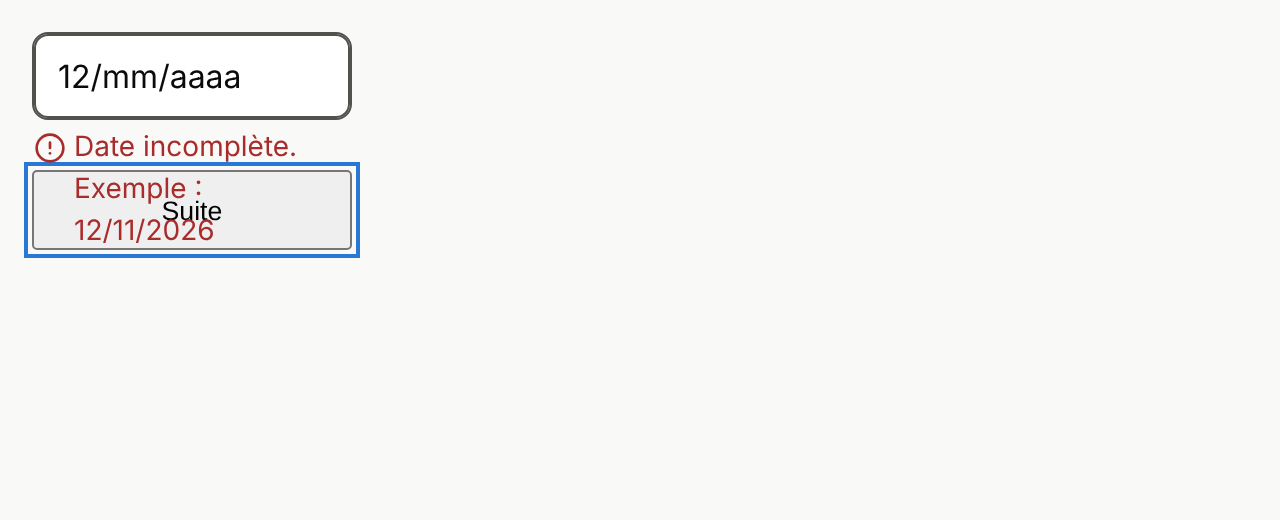
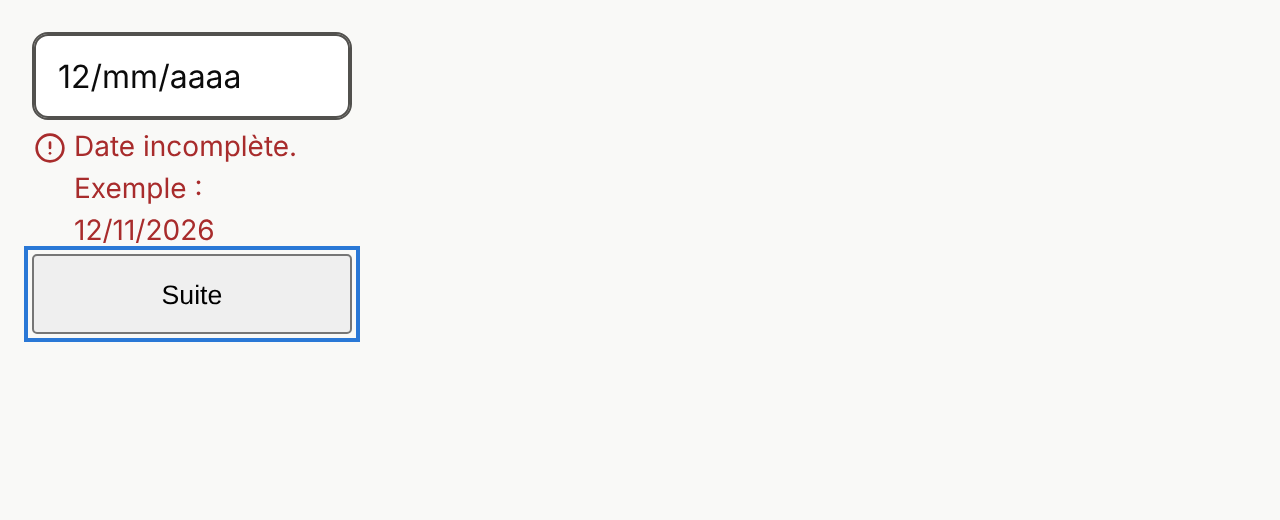
feat(date-input): champ de date à zones en mode calendrier (T1 et T2)
Socle sans interface (calculs de dates ISO, jeton LC_DATE_PICKER, ADR 0008) et
saisie par zones jour / mois / année dans lc-date-input quand le pointeur est
fin : frappe avec passage automatique, flèches, collage, jour impossible non
saisissable et sans message, date incomplète signalée à la sortie du champ.
Contrat public et mode natif inchangés. Le bouton et le calendrier arrivent
avec T5 : cette branche n'est pas fusionnée dans main avant.

Claude-Session: https://claude.ai/code/session_011nLZSEPJfzJTrYmUmaR8vs

Changed region(s): [[0.0, 0.3077, 0.2812, 0.6769], [0.125, 0.3692, 0.1875, 0.4308], [0.125, 0.5538, 0.1875, 0.5846]]

diff --git a/packages/angular/forms/src/date-input/date-input.acceptance.spec.ts b/packages/angular/forms/src/date-input/date-input.acceptance.spec.ts
@@ -218,8 +218,57 @@ describe('CA-6 un jour qui n’existe pas ne se saisit pas, sans message', () =>
     await type('29');
     expect(input.value).toBe('02/02/2026');
     expect(host.value()).toBe('2026-02-02');
-    await type('5');
+  });
+
+  it('CA-6 : 2 puis 5 dans le jour donne 25', async () => {
+    const { host, input, type, settle } = await mount(HostComponent);
+    host.value.set('2026-02-01');
+    await settle();
+    input.focus();
+    await type('25');
+    expect(input.value).toBe('25/02/2026');
     expect(host.value()).toBe('2026-02-25');
+  });
+
+  it('CA-6 : un 0 seul s’affiche 0j (valeur null), 5 donne 05, sortie de la zone la vide', async () => {
+    const { host, input, key, type, settle } = await mount(HostComponent);
+    host.value.set('2026-11-12');
+    await settle();
+    input.blur();
+    input.focus();
+    await key('Backspace');
+    await type('0');
+    expect(input.value).toBe('0j/11/2026');
+    expect(host.value()).toBeNull();
+    await type('5');
+    expect(input.value).toBe('05/11/2026');
+    expect(host.value()).toBe('2026-11-05');
+    await key('ArrowLeft');
+    await type('0');
+    await key('ArrowRight');
+    expect(input.value).toBe('jj/11/2026');
+    expect(host.value()).toBeNull();
+  });
+
+  it('CA-6 : un 0 seul dans le mois s’affiche 0m, sortie de la zone la vide', async () => {
+    const { host, input, key, type, settle } = await mount(HostComponent);
+    host.value.set('2026-11-12');
+    await settle();
+    input.blur();
+    input.focus();
+    await key('ArrowRight');
+    await key('Backspace');
+    await type('0');
+    expect(input.value).toBe('12/0m/2026');
+    await key('ArrowRight');
+    expect(input.value).toBe('12/mm/2026');
+    expect(host.value()).toBeNull();
+  });
+
+  it('CA-9 : en en-US, un 0 seul dans la première zone (mois) s’affiche 0m', async () => {
+    const { input, type } = await mount(HostComponent, 'calendar', 'en-US');
+    await type('0');
+    expect(input.value).toBe('0m/jj/aaaa');
   });
 
   it('CA-6 : mois 02 rempli, 3 puis 2026 donne 03/02/2026 sans flèche ni Tab', async () => {
@@ -241,9 +290,9 @@ describe('CA-6 un jour qui n’existe pas ne se saisit pas, sans message', () =>
     await key('ArrowLeft');
     await type('31');
     expect(input.value).toBe('03/04/aaaa');
-    await type('02026');
-    expect(input.value).toBe('30/04/2026');
-    expect(host.value()).toBe('2026-04-30');
+    await type('2026');
+    expect(input.value).toBe('03/04/2026');
+    expect(host.value()).toBe('2026-04-03');
   });
 
   it('CA-6 : « 31/02/2026 » collé donne 28/02/2026', async () => {

diff --git a/docs/specs/2026-11-selecteur-de-date.md b/docs/specs/2026-11-selecteur-de-date.md
@@ -309,13 +309,15 @@ Vérifications manuelles (hors tests automatiques) :
 |---|---|---|---|
 | T0 (livrée) | `qa-engineer` : tests de caractérisation du mode natif actuel ; vérifier que le projet de tests en navigateur tourne | S | CA-3 |
 | T1 (livrée) | `date-math.ts`, `date-picker-mode.ts` et jeton `LC_DATE_PICKER`, export explicite de `toIsoDate` | S | CA-2, CA-3 |
-| T2 | `date-mask.ts` et champ à zones dans `lc-date-input`, sans panneau : frappe, flèches, jour impossible refusé ou ramené, collage, erreurs par `transformedValue`, annonces, mode natif gardé. Le plus risqué : à prototyper en premier | L | CA-1, CA-4 à CA-11 |
+| T2 (livrée) | `date-mask.ts` et champ à zones dans `lc-date-input`, sans panneau : frappe, flèches, jour impossible refusé ou ramené, collage, erreurs par `transformedValue`, annonces, mode natif gardé. Le plus risqué : à prototyper en premier | L | CA-1, CA-4 à CA-11 |
 | T3 | `calendar-panel`, niveau jours : API à niveau, nombre de mois et sélection `{ from, to }` dès le départ ; clavier, ARIA, styles, `calendar.tokens.json`, paires de contraste, libellés | M | CA-16 (jours), CA-17 (jours), CA-19, CA-20, CA-24, CA-27, CA-38 |
 | T4 | Niveaux mois et années : grille générique, titres, bornes, clavier | M | CA-15, CA-16, CA-17 |
 | T5 | Branchement dans `lc-date-input` : bouton, surcouche, focus, « Aujourd'hui », « Effacer », cas du dialogue, stories et tests en navigateur | M | CA-12 à CA-14, CA-18, CA-21 à CA-23, CA-25, CA-26 |
 | T6 | Période dans le panneau : deux mois, aperçu, ligne d'état, « Sans date de fin », « Changer le début », raccourcis, règle des titres | M | CA-29, CA-30, CA-33 à CA-35 |
 | T7 | `lc-date-range-input` : deux champs à zones, modes, erreurs, stories, catalogue | M | CA-28, CA-31, CA-32, CA-36, CA-37, CA-39, CA-40 |
 | T8 | Vérification finale : `novice-user` sur captures, tests de bout en bout des consommateurs, catalogue de spec (n° 9), `CLAUDE.md` | S | V-2, V-3 |
+
+**Fusion** : T0 est sur `main`. T1 et T2 restent sur la branche de session jusqu'à T5 : seules, elles donneraient sur ordinateur un champ à zones sans calendrier, moins bien que le champ natif actuel. `main` ne reçoit la date simple qu'entière.
 
 Ordre : T0, T1, puis T2 et T3 (indépendantes), T4 après T3, T5 après T2 et T4, T6 puis T7, T8. La date simple (T0 à T5) est livrable avant la période. Version : mineure (ajouts ; le rendu de `lc-date-input` change sur ordinateur, son contrat de code non).
 
@@ -356,7 +358,13 @@ Ordre : T0, T1, puis T2 et T3 (indépendantes), T4 après T3, T5 après T2 et T4
 | 2026-11-19 | T1 | `code-reviewer`, tests relancés par la session principale | APPROUVÉ AVEC RÉSERVES | 17 tests unitaires, 1 543 tests verts, `catalogue:check` vert ; calculs relus à la main (mois courts, bissextiles 2000 et 2100, passage d'année, heure d'été sans effet). Réserves corrigées avec T2 : `clipInterval` ne rognait pas une borne nulle ; années inférieures à 1000 fausses (écartées : plage 1000 à 9999) ; tests ajoutés (mois de six semaines, `addMonths` vers un mois plus court). |
 | 2026-11-19 | T2 | `qa-engineer` | GO, deux constats importants | 49 tests d'acceptation (CA-1 pour le champ, CA-2, CA-4 à CA-11) et 5 essais en navigateur réel ; 1 615 tests et 232 en navigateur, verts ; tests de caractérisation intacts (seule la ligne d'import de `toIsoDate` a changé, validé). Constats renvoyés au développeur : message hors formulaire qui recouvre le contenu suivant ; « 3 » dans le jour en février qui bloque la saisie de l'année ; zone active non surlignée dans plusieurs états. Captures : `docs/design/captures/2026-11-date-picker/`. |
 | 2026-11-19 | T2 | `code-reviewer` | APPROUVÉ AVEC RÉSERVES | Contrat public inchangé ; aucune suite de touches ne laisse une date impossible. Réserves renvoyées au développeur : touches mortes et claviers virtuels pris pour un collage illisible ; jour collé supérieur à 31 ramené au lieu d'être refusé ; CSS et calculs du masque actifs aussi en mode natif ; doublons mineurs. |
+| 2026-11-19 | T2 | `qa-engineer`, trois passages ; tests relancés par la session principale | GO | 1 638 tests (dont 69 d'acceptation et les 25 de caractérisation, inchangés hors la ligne d'import) et 237 en navigateur réel, verts ; `build` et `catalogue:check` verts. Prouvé dans Chromium : zone active surlignée après chaque frappe, frappe réelle, jour impossible sans message, message hors formulaire sans recouvrement de 120 à 300 px de large, mode natif sans changement. 180 suites de frappes aléatoires et 34 ciblées : aucune ne bloque le champ. |
 
 **Écarts constatés à l'implémentation**
 - T0 : le repli « JJ/MM/AAAA » de `toIsoDate` n'est pas atteignable par une saisie dans le champ natif (un `input[type=date]` rend une valeur vide pour tout texte non ISO) ; il est donc caractérisé en appelant la fonction, pas par le champ. `lc-date-input` n'a pas encore de story : T5 en ajoute.
 - T1 : les types vivent dans `date-interval.ts`, à côté de `date-math.ts` ; les raccourcis de période sont des fonctions de calcul sans libellé (les libellés arrivent avec T6). Le sélecteur ne traite que les années 1000 à 9999 : une année qui commence par 0 ne se saisit pas.
+- T2 : les erreurs de saisie passent bien par `transformedValue` (vérifié avant d'écrire le reste). La frappe est traitée dans `keydown`, le collage et le remplissage automatique dans `input`, les claviers virtuels dans `beforeinput`.
+- T2 : hors formulaire, le message est posé sous le cadre dans une marge de l'hôte dont la hauteur suit celle du message (mesurée, suivie par `ResizeObserver`), parce que l'hôte est le cadre lui-même et ne peut rien contenir dans son flux sans changer le contrat.
+- T2 : tokens `--lc-calendar-zone-bg` et `--lc-calendar-zone-text` créés (zone active) ; onze libellés ajoutés à `LC_LABELS` (une surcharge partielle des libellés chez un consommateur reste valable).
+- T2 : limites connues : `value.set(null)` alors que la valeur est déjà `null` ne vide pas un texte partiel (`reset()` du formulaire, lui, le vide) ; une annonce identique répétée n'est pas relue par le lecteur d'écran ; après un second chiffre impossible, la suite tapée va dans la zone suivante (janvier : 3, 2, 0, 2, 6 donne 03/01/26, à compléter).
+- T2 : le contrôle des contrastes ne se lance pas par `npx lc-tokens check` seul sur les couches du kit (il demande un fichier de thème complet) ; la preuve retenue est `tokens:build`, qui vérifie les contrastes, et les tests du paquet de tokens. CA-27 est à reformuler en ce sens à T3.
